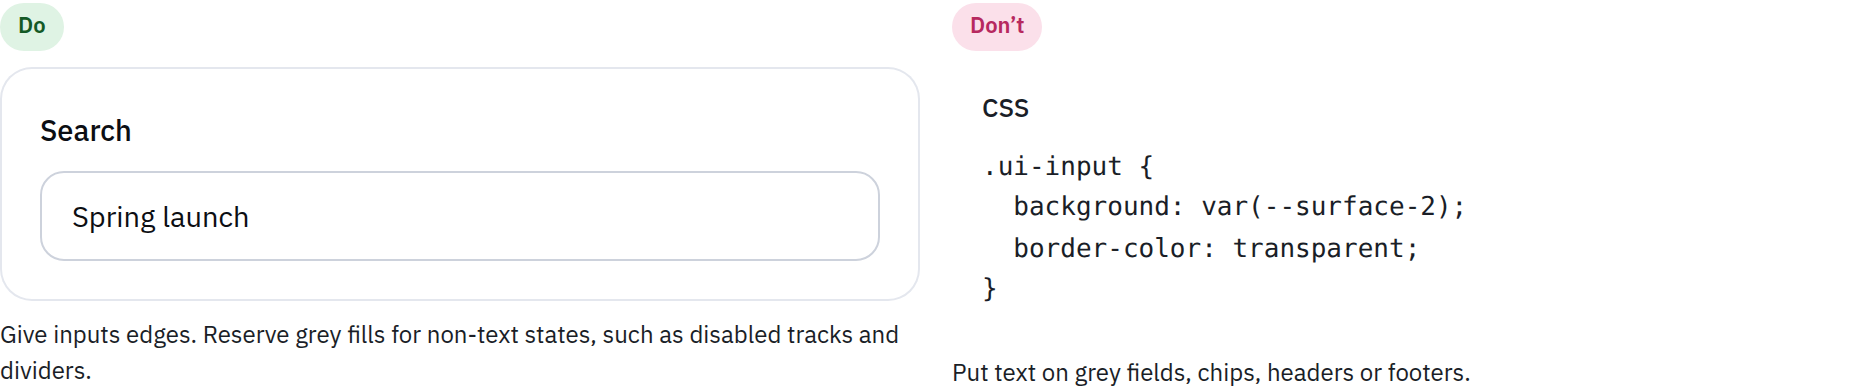
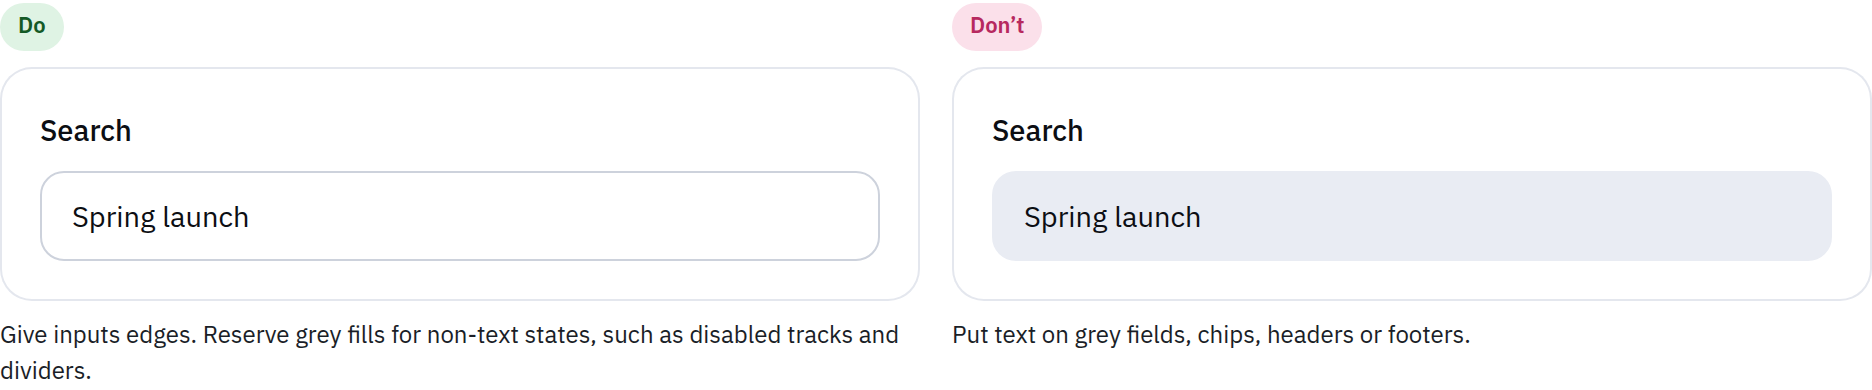
Render the foundations Don'ts from kit parts (#768)
The text-surface, theme-check, forced-colours, touch-field and provenance
Don'ts now show the rendered failure. The forced-colours pair uses a fixed
Windows High Contrast Black palette. Code stays only where a rendered
failure would fail a gate or needs a state a still page cannot set.

diff --git a/stories/guidelines/ColourAndTheming.stories.tsx b/stories/guidelines/ColourAndTheming.stories.tsx
@@ -7,6 +7,9 @@ import { TextField } from '../../react/src/Field';
 import { NavTabs } from '../../react/src/NavTabs';
 import { Button } from '../../react/src/primitives/Button';
 import { Snippet } from '../../react/src/Snippet';
+import { Segmented } from '../../react/src/Segmented';
+import { Card } from '../../react/src/primitives/Card';
+import { Badge } from '../../react/src/primitives/Badge';
 // @ts-expect-error -- plain JS story modules, read by the Node gates as well
 import { loadGuideline } from './_markdown.js';
 // @ts-expect-error -- plain JS story modules, read by the Node gates as well
@@ -22,15 +25,24 @@ const SelectionTabs = ({ badge }: { badge?: { text: string; tone: 'accent' } }) 
     { id: 'overview', label: 'Overview' }, { id: 'activity', label: 'Activity', badge }]} />
 </Stage>;
 
-// A failing pair, a second theme and forced colours cannot be drawn live on this
-// page without failing it, so those halves show the code in the kit's Snippet.
+// A failing accent ground cannot be drawn live on this page without failing
+// the contrast walk, so that half shows the code in the kit's Snippet.
 const Code = ({ label = 'CSS', code }: { label?: string; code: string }) => <Snippet label={label} code={code} copy={false} />;
 const GROUND_DONT = '.publish {\n  background: var(--accent);\n  color: #fff;\n}';
-const CHECKS_DO = 'dark, Nebula\ndark, Ocean\nlight, Nebula\nlight, Ocean';
-const CHECKS_DONT = 'dark, Nebula';
-const FIELD_DONT = '.ui-input {\n  background: var(--surface-2);\n  border-color: transparent;\n}';
-const FORCED_DO = '@media (forced-colors: active) {\n  .ui-seg button[aria-pressed="true"] {\n    forced-color-adjust: none;\n    background: Highlight;\n    color: HighlightText;\n    --ring: var(--ring-width) solid CanvasText;\n  }\n}';
-const FORCED_DONT = '@media (forced-colors: active) {\n  .ui-seg button[aria-pressed="true"] {\n    outline: 2px solid Highlight;\n  }\n}';
+const CELLS = [['Dark', 'Nebula'], ['Dark', 'Ocean'], ['Light', 'Nebula'], ['Light', 'Ocean']];
+const Checks = ({ checked }: { checked: number }) => <Card title="Theme checks">
+  <table className="ui-table ui-table--dense">
+    <thead><tr><th>Theme</th><th>Accent</th><th>Result</th></tr></thead>
+    <tbody>{CELLS.map(([theme, accent], i) => <tr key={theme + accent}><td>{theme}</td><td>{accent}</td>
+      <td>{i < checked ? <Badge variant="success">Checked</Badge> : <Badge variant="warn">Not checked</Badge>}</td></tr>)}</tbody>
+  </table>
+</Card>;
+const SearchField = () => <TextField label="Search" defaultValue="Spring launch" />;
+// `.gl-forced` paints the system colours that forced colours hands the page.
+const ForcedSeg = ({ mod }: { mod: string }) => <Stage mod={`gl-forced ${mod}`}>
+  <Segmented label="Period" value="week" onChange={() => {}} options={[
+    { value: 'day', label: 'Day' }, { value: 'week', label: 'Week' }, { value: 'month', label: 'Month' }]} />
+</Stage>;
 
 // The frozen hexes in SPEC_CSS are the specimen's subject, not a slip: `.gl-literal`
 // writes out what the dark theme composites, so the pair is one picture in dark
@@ -40,9 +52,9 @@ const specimens = [
   { id: 'signals', do: () => <Stage><BouncedEmail /></Stage>, dont: () => <Stage mod="gl-drift"><BouncedEmail /></Stage> },
   { id: 'accent-strong', do: () => <Stage><Button variant="primary">Publish</Button></Stage>, dont: () => <Code code={GROUND_DONT} /> },
   { id: 'selection-accent', do: () => <SelectionTabs />, dont: () => <SelectionTabs badge={{ text: '3', tone: 'accent' }} /> },
-  { id: 'both-themes', do: () => <Code label="Checks" code={CHECKS_DO} />, dont: () => <Code label="Checks" code={CHECKS_DONT} /> },
-  { id: 'text-surface', do: () => <Stage><TextField label="Search" defaultValue="Spring launch" /></Stage>, dont: () => <Code code={FIELD_DONT} /> },
-  { id: 'selected-forced-colours', do: () => <Code code={FORCED_DO} />, dont: () => <Code code={FORCED_DONT} /> },
+  { id: 'both-themes', do: () => <Checks checked={4} />, dont: () => <Checks checked={1} /> },
+  { id: 'text-surface', do: () => <Stage><SearchField /></Stage>, dont: () => <Stage mod="gl-grey"><SearchField /></Stage> },
+  { id: 'selected-forced-colours', do: () => <ForcedSeg mod="gl-forced--fill" />, dont: () => <ForcedSeg mod="gl-forced--outline" /> },
 ];
 
 const meta: Meta = { title: 'Guidelines/Colour and theming', parameters: { layout: 'fullscreen' } };

diff --git a/stories/guidelines/Iconography.stories.tsx b/stories/guidelines/Iconography.stories.tsx
@@ -1,7 +1,8 @@
 // The shape of a rule: AGENTS.md#the-guidelines-collection
 import type { Meta, StoryObj } from '@storybook/react';
 import type { ReactNode } from 'react';
-import { GuidelinePage, NoticePicture } from '../_guideline';
+import { GuidelinePage, NoticePicture, Raw } from '../_guideline';
+import { icon } from '@apliteni/apliteni-ui';
 import { Button } from '../../react/src/primitives/Button';
 import { Snippet } from '../../react/src/Snippet';
 // @ts-expect-error -- plain JS story modules, read by the Node gates as well
@@ -13,12 +14,19 @@ const content = await loadGuideline('iconography.md', new URL('../../guidelines/
 
 const Row = ({ children }: { children: ReactNode }) => <div className="gl-stage gl-stage--row">{children}</div>;
 
-// The provenance and stroke don'ts are code: a redrawn path would ship a glyph the
-// set does not own, and a thinner stroke rendered here fails the stroke floor.
+// The stroke don't is code: a thinner stroke rendered here fails the stroke floor.
 const Code = ({ label, code }: { label: string; code: string }) => <Snippet label={label} code={code} copy={false} />;
 const Success = () => <NoticePicture tone="success" title="Invoice sent" close={false} />;
-const RECORD_DO = '// Lucide circle-check-big, renamed for what it depicts\ncircleCheck: \'<path d="M22 11.08V12a10 10 0 1 1-5.93-9.14"/><path d="M22 4L12 14.01l-3-3"/>\'';
-const RECORD_DONT = 'circleCheck: \'<path d="M21 12a9 9 0 1 1-6-8.5"/><path d="M21 5l-9 9-3-3"/>\'';
+const KIT_PATH = '<path d="M22 11.08V12a10 10 0 1 1-5.93-9.14"/><path d="M22 4L12 14.01l-3-3"/>';
+// A hand-redrawn check, the Don't's subject: a shorter arc and a moved tick.
+const REDRAWN_PATH = '<path d="M21 12a9 9 0 1 1-6-8.5"/><path d="M21 5l-9 9-3-3"/>';
+const RECORD_DO = `// Lucide circle-check-big, renamed for what it depicts\ncircleCheck: '${KIT_PATH}'`;
+const RECORD_DONT = `circleCheck: '${REDRAWN_PATH}'`;
+// The kit's toast, with the redrawn path in the glyph slot at the kit's own stroke.
+const Redrawn = () => <div className="ui-toast ui-toast--success ui-toast--soft" role="status" aria-live="polite">
+  <span className="ui-toast__icon"><Raw html={icon('circleCheck').replace(KIT_PATH, REDRAWN_PATH)} /></span>
+  <div className="ui-toast__body"><div className="ui-toast__title">Invoice sent</div></div>
+</div>;
 
 // The do/don't pair for the closed list. Both halves are ordinary secondary
 // buttons, so neither half is also a specimen of a contrast fault.
@@ -33,7 +41,7 @@ const specimens = [
     dont: () => <div className="gl-stage"><NoticePicture tone="danger" glyph="x" title="Upload failed" text="The file exceeded 25 MB." /></div> },
   { id: 'provenance',
     do: () => <div className="gl-stage"><Success /><Code label="Glyph set" code={RECORD_DO} /></div>,
-    dont: () => <Code label="Glyph set" code={RECORD_DONT} /> },
+    dont: () => <div className="gl-stage"><Redrawn /><Code label="Glyph set" code={RECORD_DONT} /></div> },
   { id: 'stroke-earns-the-bar',
     do: () => <div className="gl-stage"><Success /><Code label="Visible width" code={'16px × 2.25 ÷ 24 = 1.5 CSS px\nheld to 3:1'} /></div>,
     dont: () => <Code label="Visible width" code={'16px × 1.5 ÷ 24 = 1 CSS px\nstill held to 3:1'} /> },

diff --git a/stories/guidelines/AccessibilityFloor.stories.tsx b/stories/guidelines/AccessibilityFloor.stories.tsx
@@ -3,6 +3,7 @@ import type { Meta, StoryObj } from '@storybook/react';
 import type { ReactNode } from 'react';
 import { GuidelinePage } from '../_guideline';
 import { Checkbox } from '../../react/src/Checkbox';
+import { TextField } from '../../react/src/Field';
 import { Badge } from '../../react/src/primitives/Badge';
 import { Button } from '../../react/src/primitives/Button';
 import { Card } from '../../react/src/primitives/Card';
@@ -36,11 +37,15 @@ const Revoking = ({ disabled }: { disabled: boolean }) => <div className="gl-sta
   {!disabled && <div className="gl-cursor">Revoke key is unavailable</div>}
 </div>;
 
-// A pointer, a keyboard and a touch screen are states a still page cannot set,
-// so those halves show the code that decides them, in the kit's Snippet.
+// A still page has no touch screen, so `.gl-touch` pins the field text a phone
+// gets: 16px in the Do, a smaller computed size in the Don't.
+const PromoCode = ({ mod }: { mod: string }) => <div className={`gl-stage gl-touch ${mod}`}>
+  <TextField label="Promo code" defaultValue="SPRING-24" />
+</div>;
+
+// Finished, both keyboard-first halves look the same, so each draws the order of
+// work in the kit's Snippet.
 const Code = ({ label = 'CSS', code }: { label?: string; code: string }) => <Snippet label={label} code={code} copy={false} />;
-const TOUCH_DO = '@media (pointer: coarse) {\n  input, select, textarea { font-size: 16px; }\n}';
-const TOUCH_DONT = '@media (pointer: coarse) {\n  input { font-size: 16px; transform: scale(0.875); }\n}';
 
 // The Don't is the kit's own muted card title: pale ink at the card-title size.
 const Cashflow = ({ pale }: { pale?: boolean }) => <div className="gl-stage">{pale
@@ -48,7 +53,6 @@ const Cashflow = ({ pale }: { pale?: boolean }) => <div className="gl-stage">{pa
     <div className="ui-card__sub">Income and expenses by month.</div></div>
   : <Card title="Monthly cashflow" sub="Income and expenses by month." />}</div>;
 
-// Finished, both halves look the same, so each half draws the order of work.
 const KEYS_DO = '1. <button>Publish</button> <button>Discard</button>\n   Tab reaches Publish, then Discard. Enter publishes.\n2. Add the ui-btn classes.';
 const KEYS_DONT = '1. <div class="ui-btn" onclick="publish()">Publish</div>\n2. Add tabindex and a keydown handler afterwards.';
 
@@ -69,7 +73,7 @@ const specimens = [
     dont: () => <Row mod="gl-tap gl-tap--tight"><span className="gl-tap__ink" aria-hidden="true" /><span className="gl-tap__ink" aria-hidden="true" /></Row> },
   { id: 'ring-contrast', do: () => <Ringed />, dont: () => <Ringed mod="gl-ring--halo" /> },
   { id: 'disabled-legibility', do: () => <Revoking disabled />, dont: () => <Revoking disabled={false} /> },
-  { id: 'touch-field-size', do: () => <Code code={TOUCH_DO} />, dont: () => <Code code={TOUCH_DONT} /> },
+  { id: 'touch-field-size', do: () => <PromoCode mod="gl-touch--16" />, dont: () => <PromoCode mod="gl-touch--14" /> },
   { id: 'body-contrast', do: () => <Cashflow />, dont: () => <Cashflow pale /> },
   { id: 'status-label',
     do: () => <Row><Badge variant="warn">Paused</Badge><Badge variant="live">Live</Badge></Row>,

diff --git a/stories/guidelines/_colour-and-theming.js b/stories/guidelines/_colour-and-theming.js
@@ -14,4 +14,13 @@ export const SPEC_CSS = `
     .gl-literal .ui-callout { background: #22394a; color: #c6c2d6; }
     .gl-literal .ui-callout__icon { color: #20dcf5; }
     .gl-drift { --pink: var(--accent); }
+    .gl-grey .ui-input { background: var(--surface-2); border-color: transparent; }
+    /* Windows High Contrast Black, fixed: forced colours ignore the kit theme, and JSDOM's
+       own system colours are not the ones a browser paints, so the walk measures
+       these: canvas #000, text #fff, highlight #1aebff, highlight text #000. */
+    .gl-forced { background: #000; color: #fff; padding: var(--space-3); }
+    .gl-forced .ui-seg { background: #000; border-color: #fff; }
+    .gl-forced .ui-seg button { background: #000; color: #fff; }
+    .gl-forced--fill .ui-seg button[aria-pressed="true"] { background: #1aebff; color: #000; box-shadow: 0 0 0 2px #fff; }
+    .gl-forced--outline .ui-seg button[aria-pressed="true"] { outline: 2px solid #1aebff; }
   </style>`;

diff --git a/stories/guidelines/_accessibility-floor.js b/stories/guidelines/_accessibility-floor.js
@@ -267,6 +267,9 @@ export const SPEC_CSS = `
     .gl-measure { display: block; margin: 0; max-width: none;
       padding: var(--space-3); border-radius: var(--radius-md); color: var(--text); }
     .gl-measure--gradient { background: linear-gradient(90deg, var(--surface), color-mix(in srgb, var(--accent) 30%, var(--surface))); }
+    /* !important beats the kit's own coarse-pointer 16px, so a phone sees the pair too. */
+    .gl-touch--16 .ui-input { font-size: 16px !important; }
+    .gl-touch--14 .ui-input { font-size: 14px !important; }
   </style>`;
 
 
